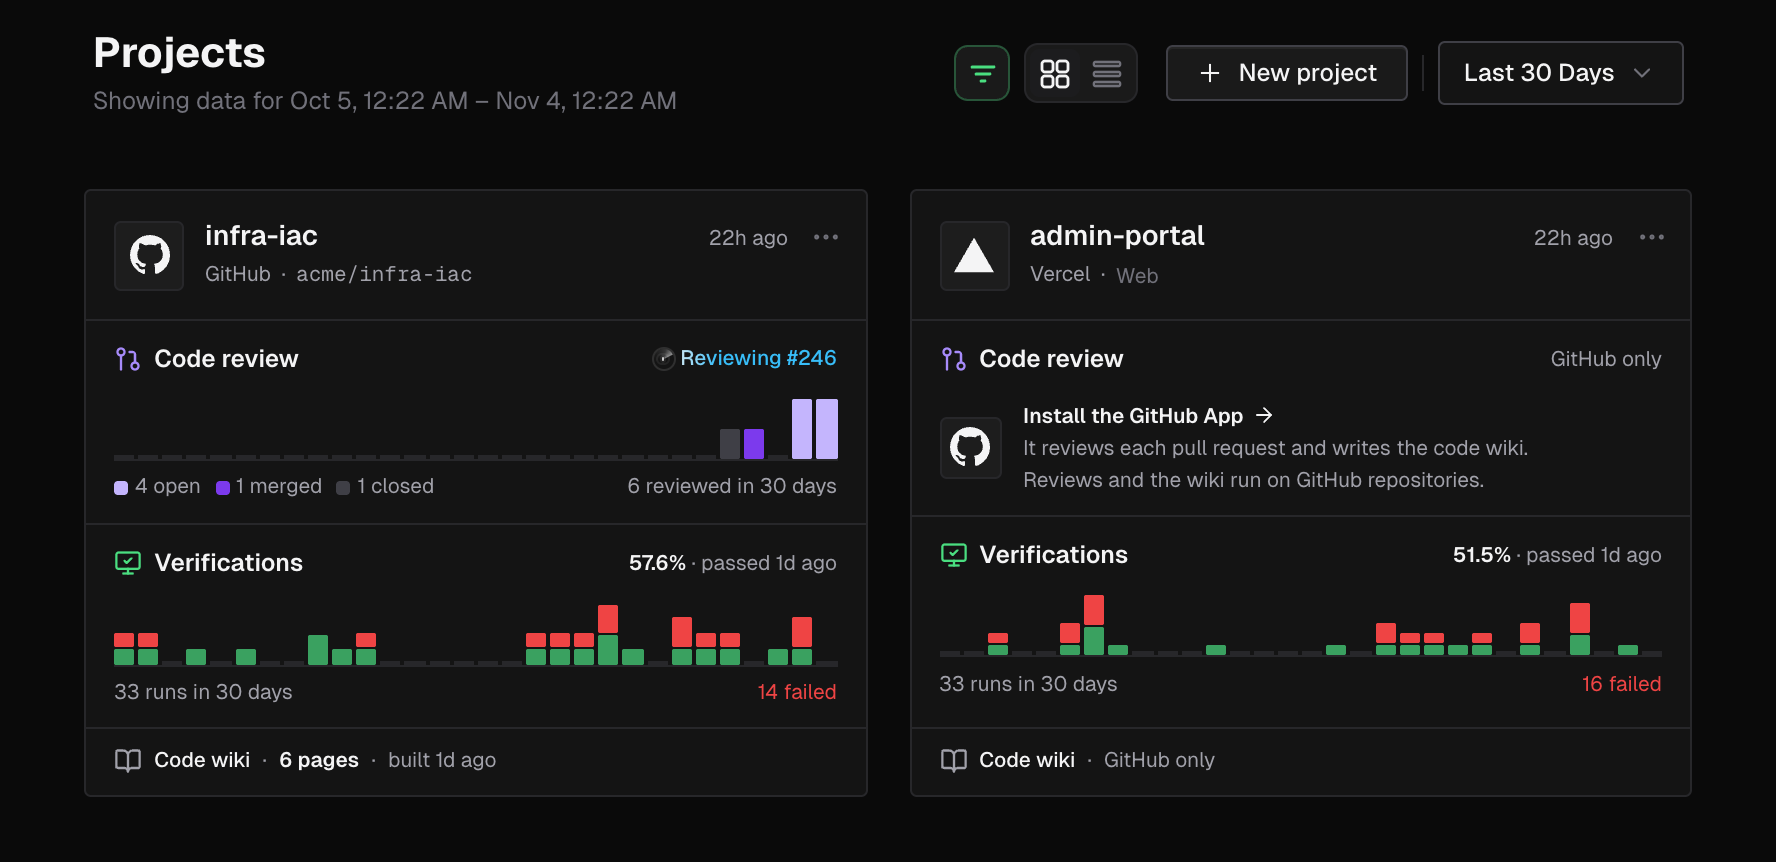
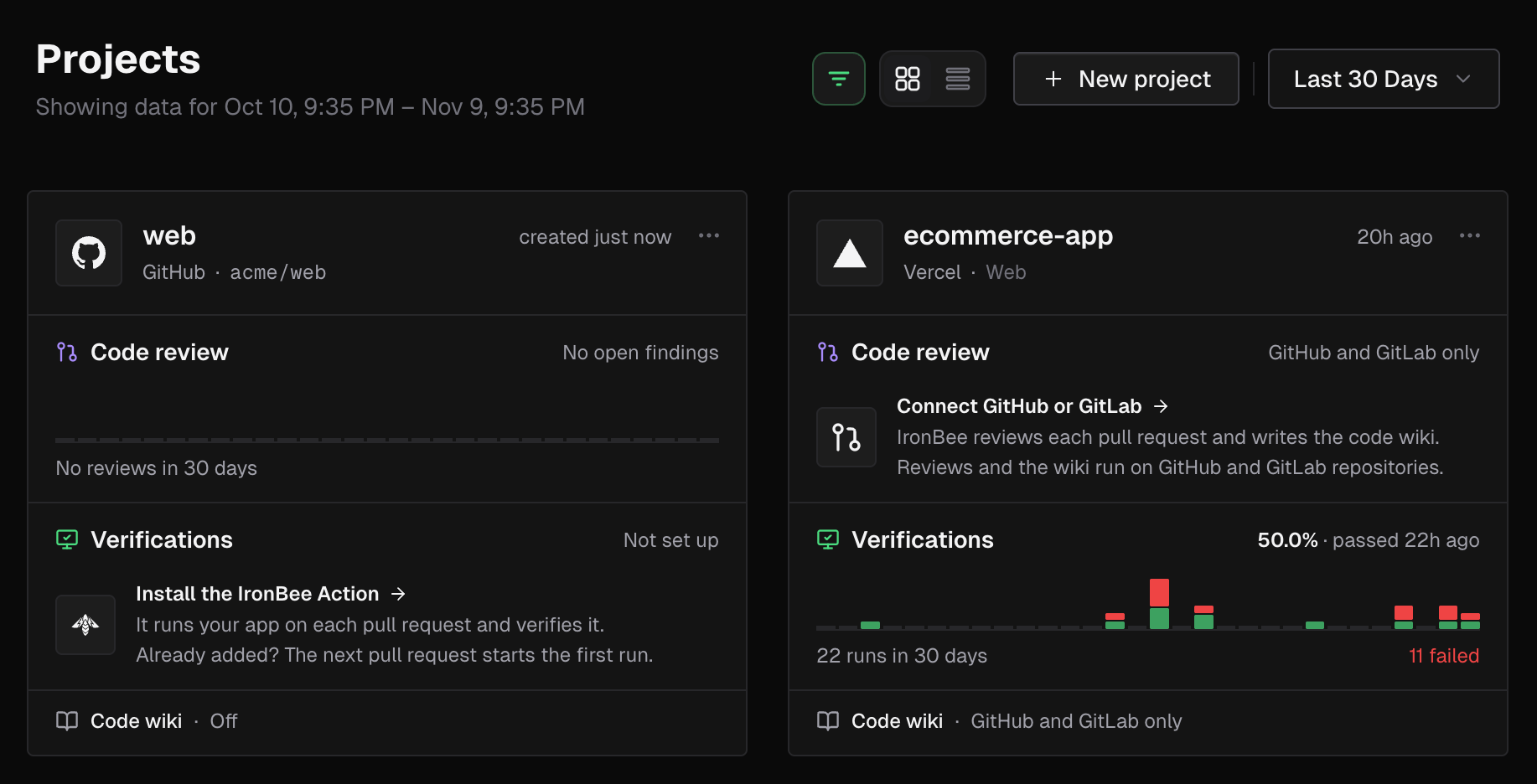
docs: catch up with ironbee-action v1.2.0 and the GitLab component 1.2.0, recapture console screenshots on mock data, drop the pre-existing mark (#38)

diff --git a/AGENTS.md b/AGENTS.md
@@ -159,7 +159,7 @@ When you remove or rename a page, add a `redirects` entry in `docs.json`. Keep t
 - Clip each shot to the part the text explains, a card, table, dialog or panel about 600-1000 px wide. A full-window capture is unreadable in the content column.
 - Keep the console's top bar out of the frame, since it shows the plan name. Never show real people's names or emails, prices, plans, seats, limits, or a take-over control.
 - Capture from the console running on mock data, not from a real account.
-- On GitHub, code review shows severity, kind and pre-existing marks and the **Open in IronBee** button as the console's own SVG badges, not emoji. The docs use copies of them from `images/code-review/badges/`, shown inline with the `ib-mark` classes in `style.css`. Re-copy them from the console frontend's `public/badges/` when they change.
+- On GitHub, code review shows severity and kind marks and the **Open in IronBee** button as the console's own SVG badges, not emoji. The docs use copies of them from `images/code-review/badges/`, shown inline with the `ib-mark` classes in `style.css`. Re-copy them from the console frontend's `public/badges/` when they change.
 
 ## Content boundaries
 
